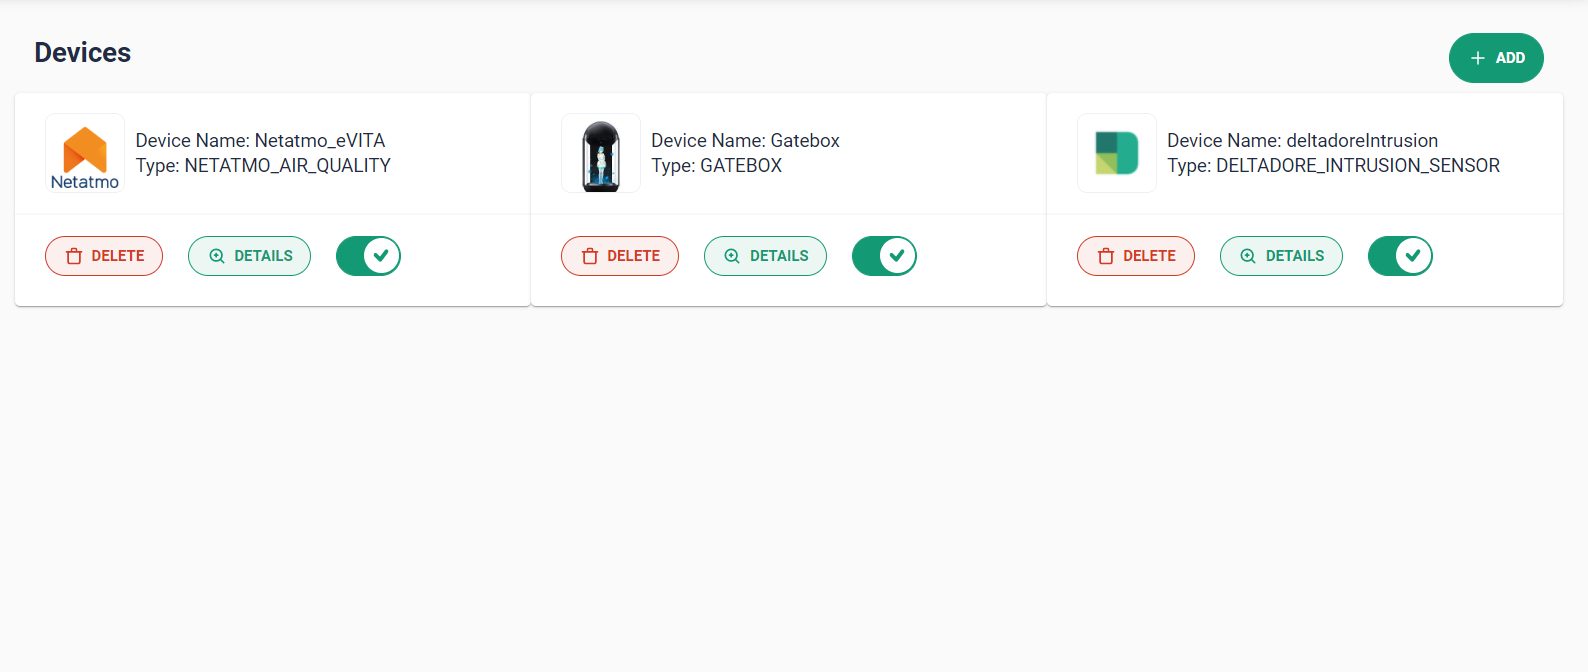
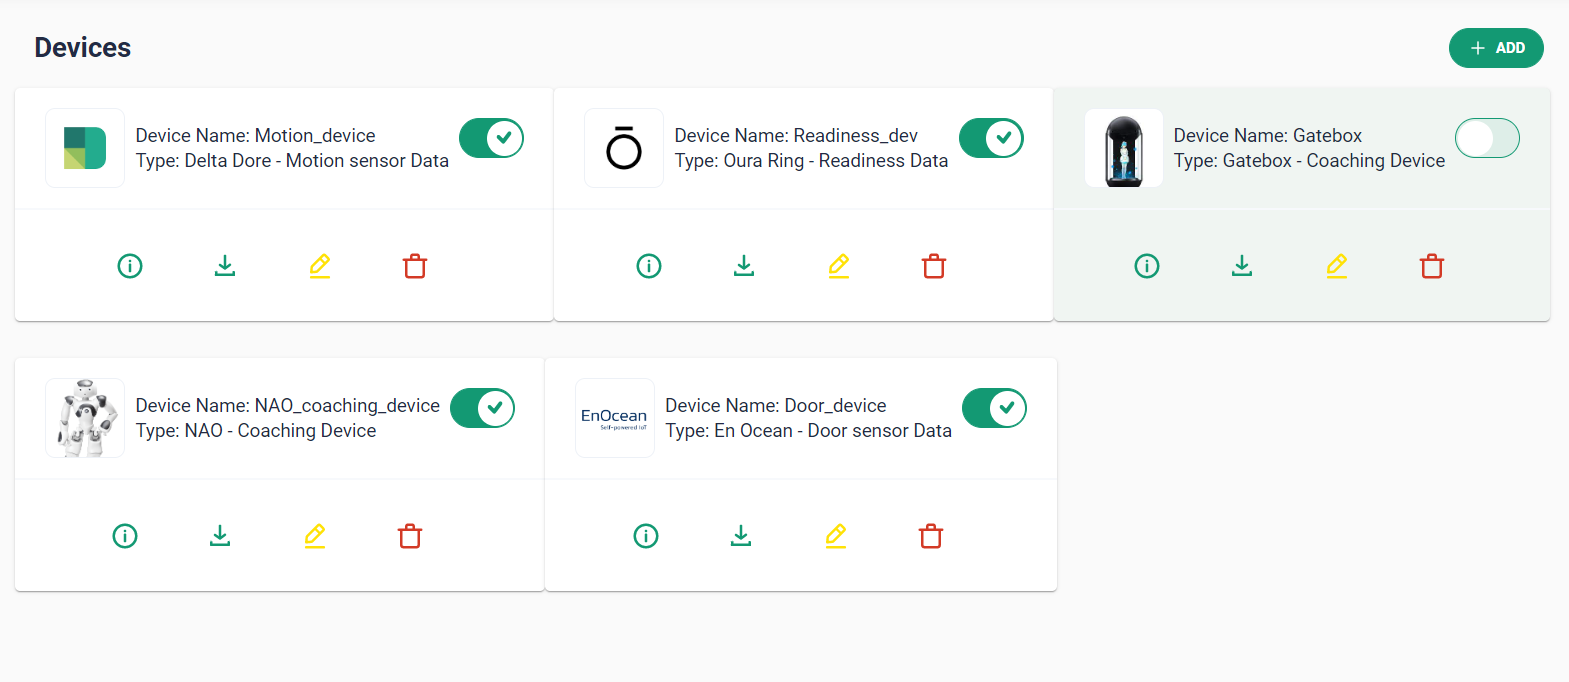
updates

diff --git a/dashboard-user-manual/README.md b/dashboard-user-manual/README.md
@@ -43,7 +43,13 @@ Only once this information has been entered, it will be possible for the user to
 
 ## Homepage: general overview of the devices
 
-The Homepage is the first page of the e-VITA dashboard where is presented an overview of the devices registered by the user. The page presents a _card_ graphic component for each device previously registered by the user; each of them provides the following device information:
+The Homepage is the first page of the e-VITA dashboard where is presented an overview of the devices registered by the user.
+The page has two different menus:
+
+- _Side menu_ from which to access the other functions of the platform and download the user and installation manuals.
+- _User menu_ from which to view and modify profile information.
+
+The page presents a _card_ graphic component for each device previously registered by the user; each of them provides the following device information:
 
 - _Device Name:_ the name chosen by the user and associated with the device during device registration phase.
 - _Device ID:_ an alphanumeric string associated with the device during device registration phase, generated and assigned internally by the e-VITA platform in order to uniquely identify the device.
@@ -71,11 +77,21 @@ The basic information of the device shown on each card are the following:
 
 The possible operations on the device are the following:
 
-- _Delete:_ through this operation, the user will delete the specific device from the e-VITA platform and the related data in the Object Storage and the Orion Context Broker. More details on this operation in section 2.5.4.
-- _Details:_ through this operation, the user will be able to view a specific page where are included detailed information of the selected device and instructions for sending and/or reading the measurements.
 - _Enable/disable:_ Through this operation, the user has the possibility to change the status of the device: by disabling it, the device information and previous collected data will remain saved in the e-VITA platform, but the device will be not able to send/receive data.
+- _Details:_ through this operation, the user will be able to view a specific page where are included detailed information of the selected device and instructions for sending and/or reading the measurements.
+- _Obtain historical data_: through this operation, the user can download a file containing the measurements/messages sent by the device. To define a time frame, must be selected a start date (mandatory) and an end date (optional).
+- _Edit_: through this operation, it is possibile to change the device name and manage additional attributes.
+- _Delete:_ through this operation, the user will delete the specific device from the e-VITA platform and the related data in the Object Storage and the Orion Context Broker. More details on this operation in section 2.5.4.
 
 ![alt tag](./img/Devices_page.png "Devices page")
+
+The figure below shows the dialogue to get historical data.
+
+<span><img title="title" alt="text" src="./img/historical_data.png" style="border: 2px solid #555;width:45%;margin-left: 30%;"></span>
+
+The following figure shows the dialogue to edit the device attributes.
+
+<span><img title="title" alt="text" src="./img/edit.png" style="border: 2px solid #555;width:45%;margin-left: 30%;"></span>
 
 ### Device registration
 
@@ -153,6 +169,7 @@ On the Details page, specific and detailed information on the device of interest
   - _Curl example:_ example for using the endpoint to send data from the device
   - _User Language:_ the field contains the information relating to the user&#39;s language
 - _Attributes:_ this field contains the specific information fields of the device measurements (for example temperature, humidity, noise, etc.).
+- _Additional Attributes:_ this field contains the additional device attributes, if the user added them via the _Edit_ section.
 - _Endpoint to get the last measure:_ this field contains the _cURL command_ which specifies all the necessary information (request type, endpoint, request headers) to make the request to the Orion Context Broker in order to obtain the last measurement provided by the specific device*.*
 - _Last measure:_ It is the value of the last measurement provided by the specific device*.*
 - _Endpoint to send measures:_ this field contains the _cURL command_ which specifies all the necessary information (request type, endpoint, request headers) to make the request to the specific REST API of the e-VITA platform to which the device will send its measurements; they will be stored in the Object Storage and in the Orion Context Broker or, in the case of a Coaching Device, through this request, the text message, will be sent to the Dialogue Manager (Rasa). This field will be displayed only if the device can directly send its measurements (i.e. &quot;direct access&quot; type).
@@ -219,3 +236,12 @@ In addition, two different possibilities are presented to the user:
 
 - The user can decide to log-out from the Cloud Service and permanently delete all the devices relating to the specific Cloud Service, from his registered devices.
 - The user can decide to log-out from the Cloud Service but to maintain the related devices still stored and viewable among the user registered devices. In this case, however, having logged out from the service, these devices will change their status in _disabled_; this means that their information will remain stored and still visible on the _Devices_ page, but the extraction by the e-VITA platform of new measurements, taken by these devices, will be suspended.
+
+## Dialogue Manager page
+
+In this page, the user has the possibility to test the functioning of the _Dialogue manager (RASA)_ instance connected to the platform.
+To do this, the user can send text messages and view the replies from the Dialogue Manager.
+
+The Figure shows an example of a conversation.
+
+<span><img title="Dialogue Manager page" alt="Dialogue Manager page" src="./img/Dialogue_manager_page.png" style="border: 2px solid #555;width:80%;"></span>
